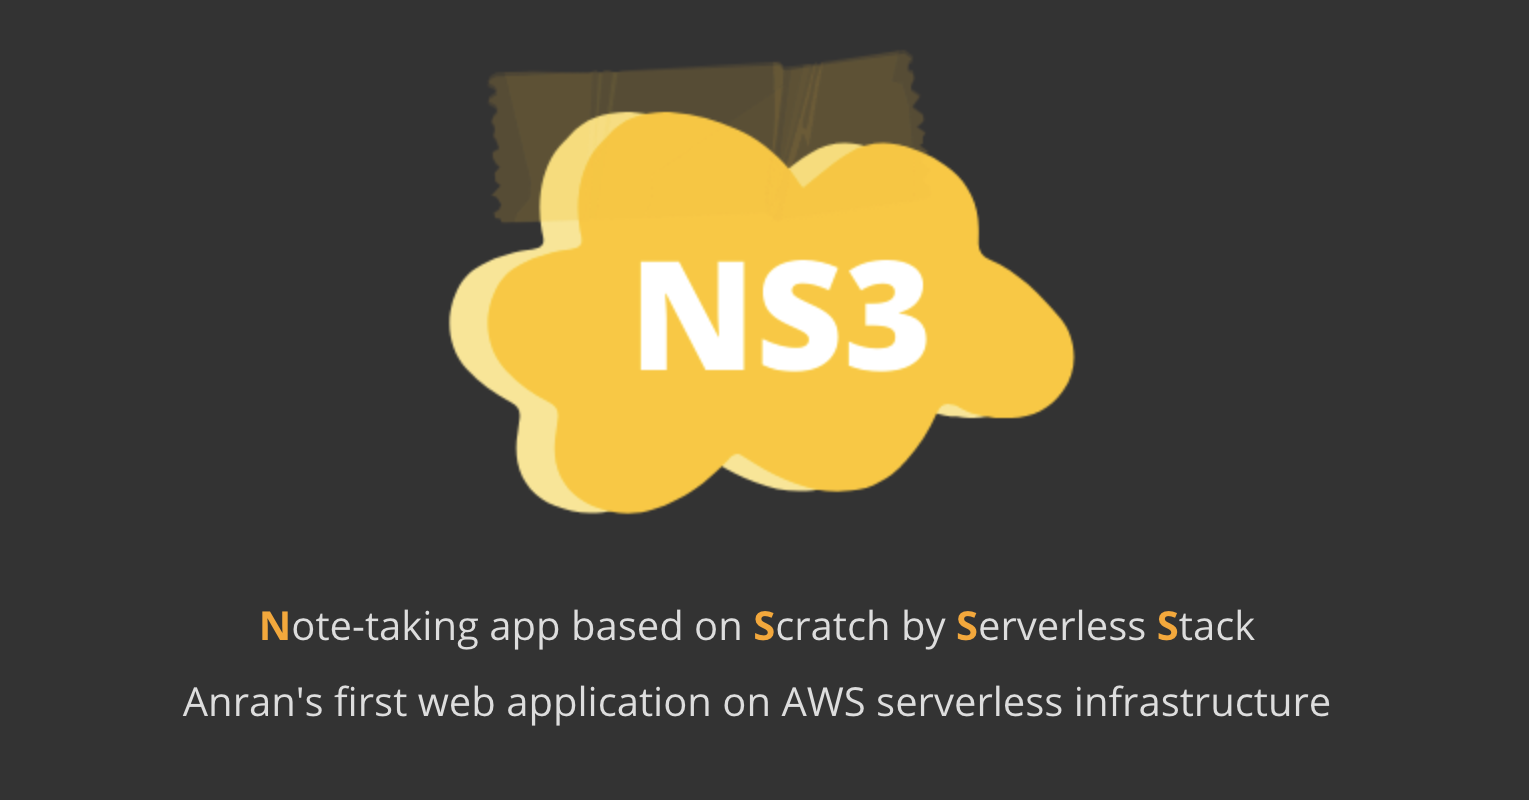
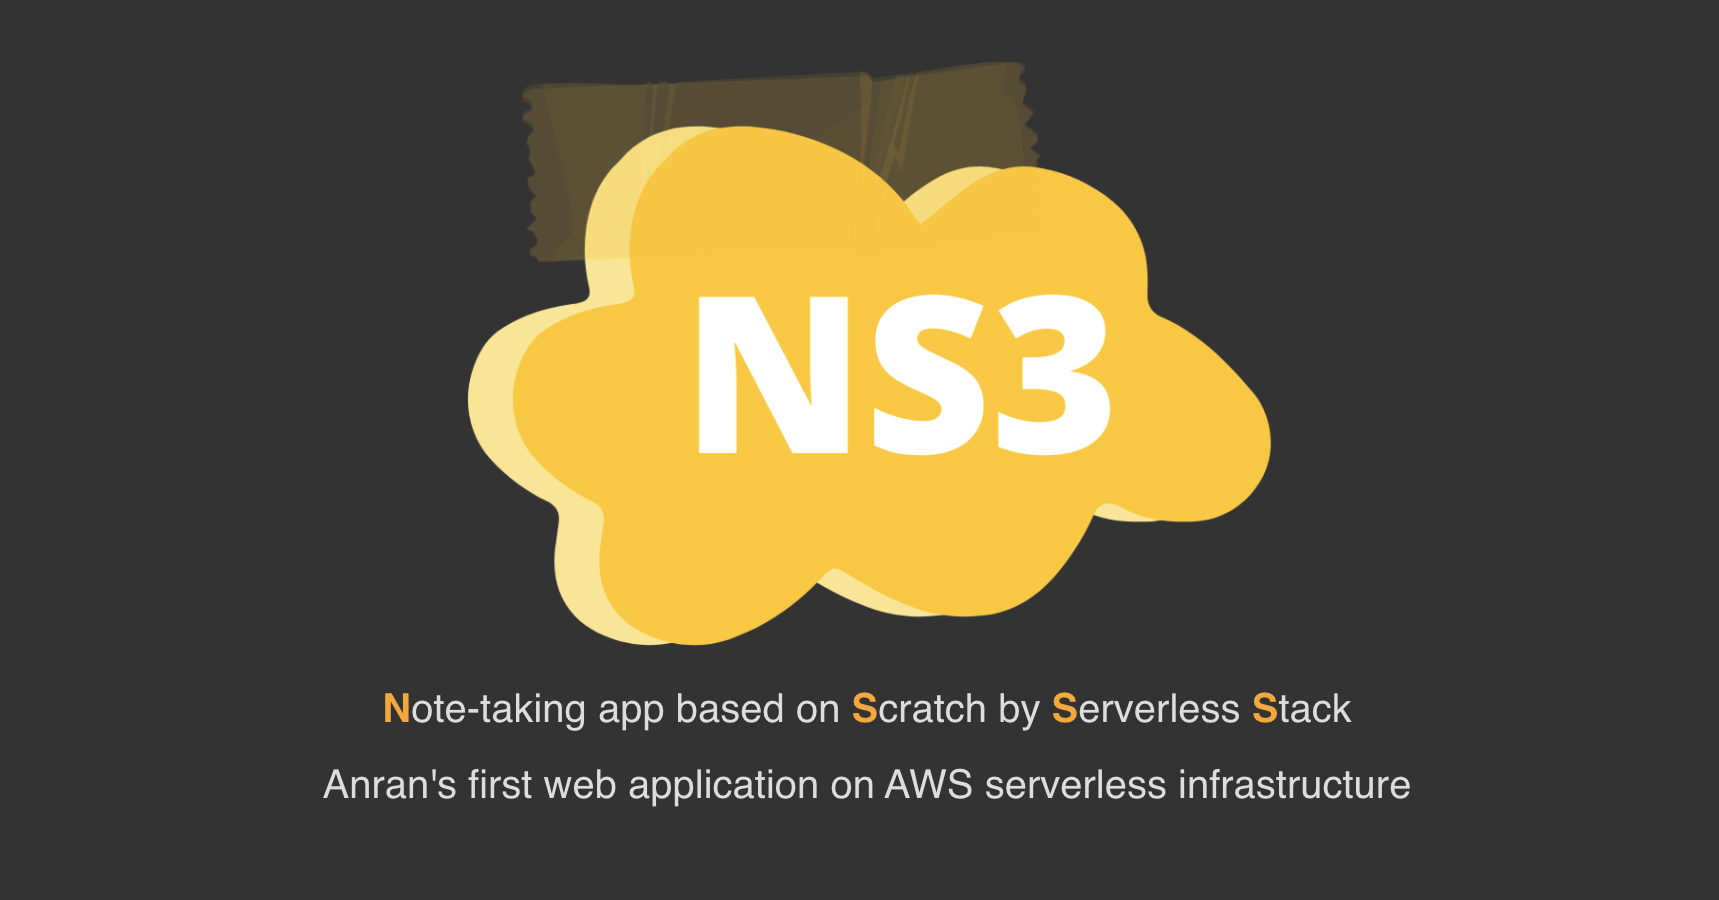
Use HD preview og image

Changed region(s): [[0.2459, 0.0938, 0.7377, 0.7188], [0.123, 0.8438, 0.8607, 0.9062], [0.1537, 0.75, 0.83, 0.8125]]

diff --git a/src/App.css b/src/App.css
@@ -12,7 +12,7 @@
 
 .logo-container{
   position: relative;
-  bottom: 25px;
+  bottom: 20px;
   margin: 0;
   height: 5rem;
 }
